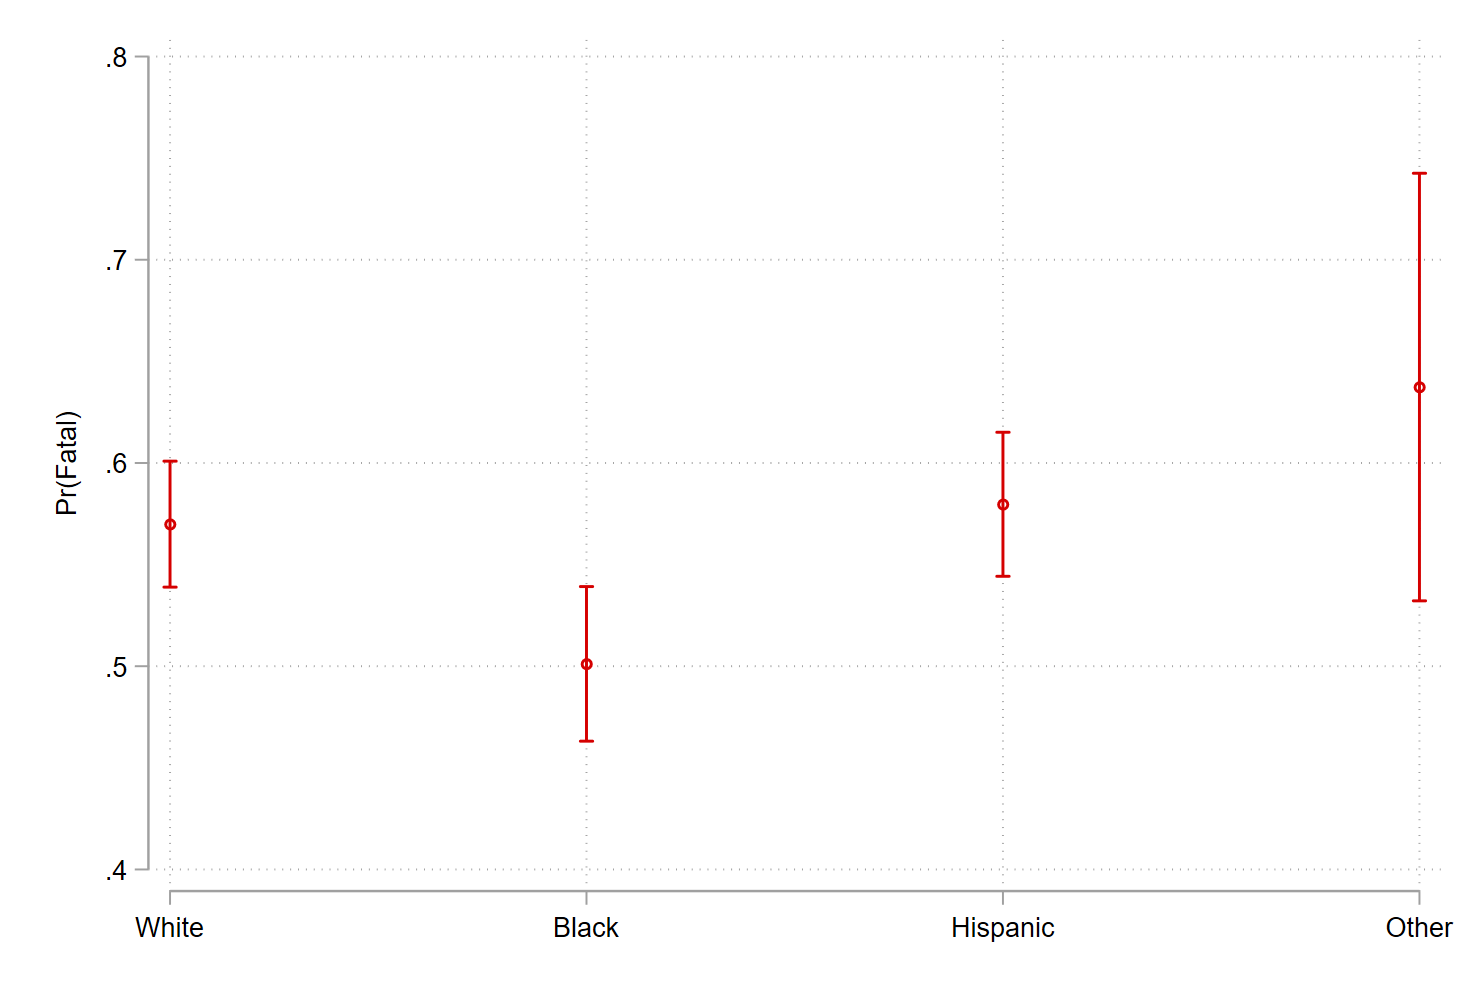
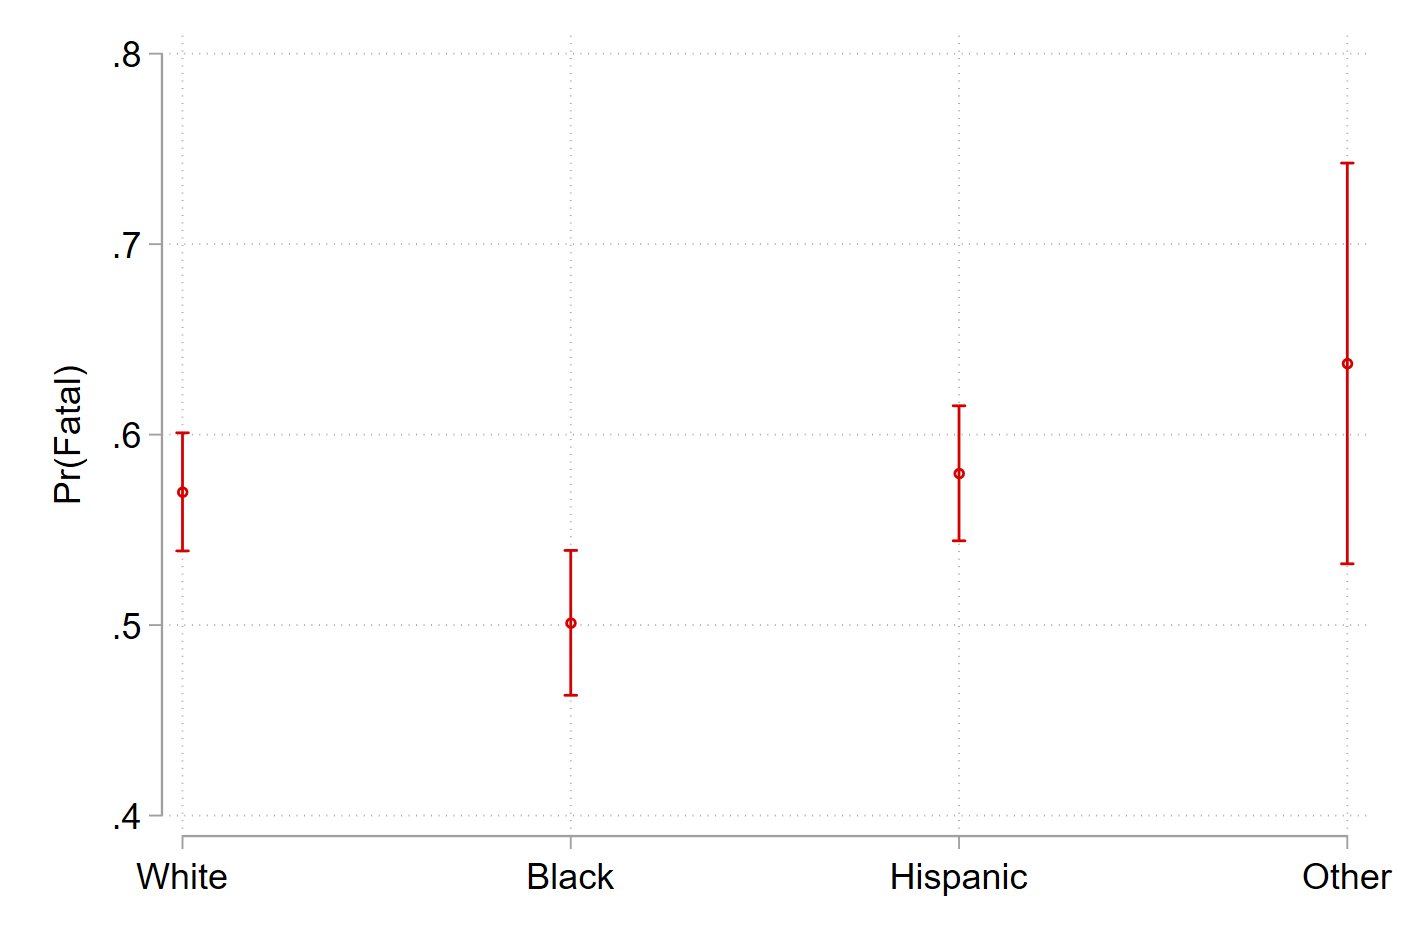
enlarge figure text for ASC pres.

diff --git a/static/slides/ASC21_PONE_Paper/index.html b/static/slides/ASC21_PONE_Paper/index.html
@@ -237,30 +237,37 @@ class: top, references-font
 ---
 class: top
 
-# Supplemental Materials
-
-&lt;img src="fig_s1.png" width="450px" style="display: block; margin: auto;" /&gt;
-
----
-class: top
-
-# Supplemental Materials
-
-&lt;img src="fig_s2.png" width="600px" style="display: block; margin: auto;" /&gt;
+# Supplemental Materials  
+.small[Police shooting mortality rates, county-level]  
+&lt;img src="fig_s1.png" width="400px" style="display: block; margin: auto;" /&gt;
 
 ---
 class: top
 
-# Supplemental Materials
-
-&lt;img src="fig_s3.jpg" width="450px" style="display: block; margin: auto;" /&gt;
+# Supplemental Materials  
+.small[Police shooting mortality rates, county-level]  
+&lt;img src="fig_s2.png" width="550px" style="display: block; margin: auto;" /&gt;
 
 ---
 class: top
 
-# Supplemental Materials
+# Supplemental Materials  
+.small[Police shooting mortality rates, county-level]  
+&lt;img src="fig_s3.jpg" width="400px" style="display: block; margin: auto;" /&gt;
 
+---
+class: top
+
+# Supplemental Materials  
+.small[Police shooting mortality rates, county-level]  
 &lt;img src="fig_s4.jpg" width="400px" style="display: block; margin: auto;" /&gt;
+
+---
+class: top
+
+# Supplemental Materials
+
+&lt;img src="fig_s5.png" width="750px" style="display: block; margin: auto;" /&gt;
 
 ---
 class: top
